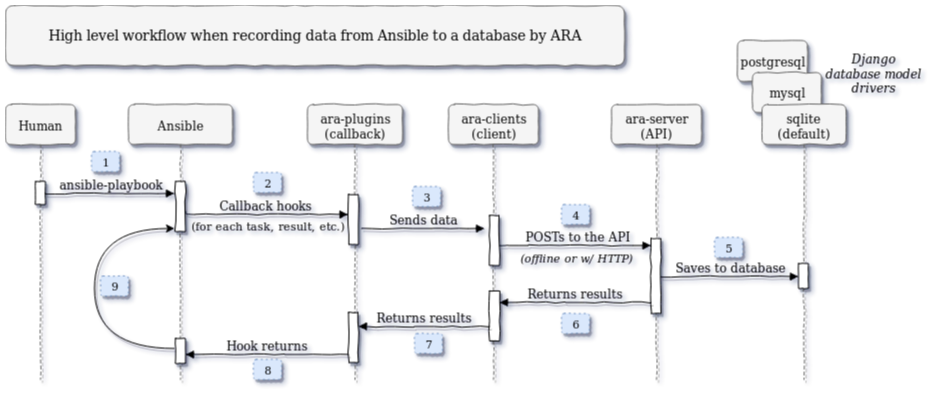
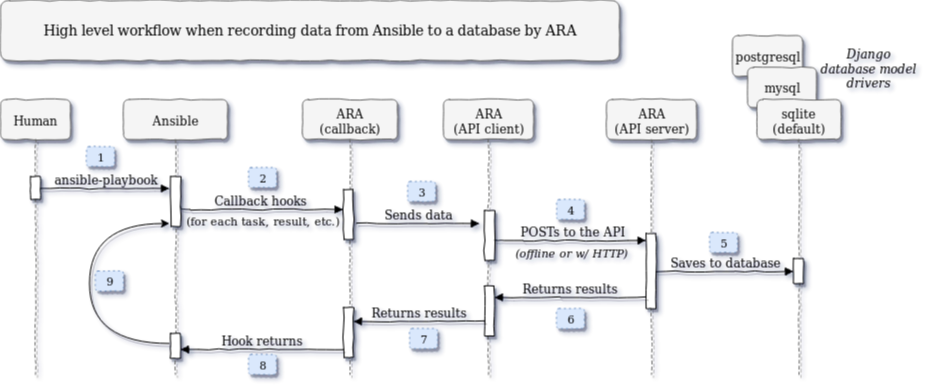
Documentation updates post-merge of plugins/server/clients
This updates some of the documentation bits that referred to individual
components like ara-server, ara-plugins and ara-clients.

diff --git a/doc/source/api-configuration.rst b/doc/source/api-configuration.rst
@@ -1,13 +1,13 @@
 .. _configuring:
 
-ara-server configuration
-========================
+ARA API server configuration
+============================
 
-ara-server ships with sane defaults, supports the notion of different
+The API server ships with sane defaults, supports the notion of different
 environments (*such as dev, staging, prod*) and allows you to customize the
 configuration with files, environment variables or a combination of both.
 
-ara-server is a Django application that leverages django-rest-framework.
+The API is a Django application that leverages django-rest-framework.
 Both `Django <https://docs.djangoproject.com/en/2.1/ref/settings/>`_ and
 `django-rest-framework <https://www.django-rest-framework.org/api-guide/settings/>`_
 have extensive configuration options which are not necessarily exposed or made
@@ -16,7 +16,7 @@ customizable by ARA for the sake of simplicity.
 Overview
 --------
 
-This is a brief overview of the different configuration options for ara-server.
+This is a brief overview of the different configuration options for the API server.
 For more details, click on the configuration parameters.
 
 +--------------------------------+------------------------------------------------------+------------------------------------------+
@@ -24,7 +24,7 @@ For more details, click on the configuration parameters.
 +================================+======================================================+==========================================+
 | ARA_BASE_DIR_                  | Default directory for storing data and configuration | ``~/.ara/server``                        |
 +--------------------------------+------------------------------------------------------+------------------------------------------+
-| ARA_SETTINGS_                  | Path to an ara-server configuration file             | ``None``                                 |
+| ARA_SETTINGS_                  | Path to an API server configuration file             | ``None``                                 |
 +--------------------------------+------------------------------------------------------+------------------------------------------+
 | ARA_ENV_                       | Environment to load configuration for                | ``default``                              |
 +--------------------------------+------------------------------------------------------+------------------------------------------+
@@ -90,7 +90,7 @@ Changing this location influences the default root directory for the
 ``ARA_STATIC_ROOT`` and ``ARA_DATABASE_NAME`` parameters.
 
 This is also used to determine the location where the default configuration
-file, ``settings.yaml``, will be generated by ara-server.
+file, ``settings.yaml``, will be generated by the API server.
 
 ARA_SETTINGS
 ~~~~~~~~~~~~
@@ -101,15 +101,15 @@ ARA_SETTINGS
 - **Default**: ``None``
 - **Provided by**: dynaconf_
 
-Location of an ara-server configuration file to load settings from.
-``ara-server`` generates a default configuration file at
+Location of an API server configuration file to load settings from.
+The API server will generate a default configuration file at
 ``~/.ara/server/settings.yaml`` that you can use to get started.
 
 Note that while the configuration file is in YAML by default, it is possible
 to have configuration files written in ``ini``, ``json`` and ``toml`` as well.
 
-Settings and configuration parsing in ara-server is provided by the dynaconf_
-python module.
+Settings and configuration parsing by the API server is provided by the dynaconf_
+python library.
 
 .. _dynaconf: https://github.com/rochacbruno/dynaconf
 
@@ -122,9 +122,9 @@ ARA_ENV
 - **Default**: ``development``
 - **Provided by**: dynaconf_
 
-If you are using ara-server in different environments and would like keep your
-configuration in a single file, you can use this variable to select a specific
-environment's settings.
+If you are using the API server in different environments and would like keep
+your configuration in a single file, you can use this variable to select a
+specific environment's settings.
 
 For example::
 
@@ -158,7 +158,7 @@ Another approach to environment-specific configuration is to use
 or ``prod.yaml`` instead.
 
 .. tip::
-   If it does not exist, ara-server will generate a default configuration
+   If it does not exist, the API server will generate a default configuration
    file at ``~/.ara/server/settings.yaml``.
    This generated file sets up all the configuration keys in the **default**
    environment.
@@ -207,7 +207,7 @@ ARA_LOG_LEVEL
 - **Type**: ``string``
 - **Default**: ``INFO``
 
-Log level of the different components from ``ara-server``.
+Log level of the different components from the API server.
 
 ``ARA_LOG_LEVEL`` changes the log level of the default logging configuration
 provided by ARA_LOGGING_.
@@ -243,7 +243,7 @@ ARA_LOGGING
         level: INFO
         version: 1
 
-The python logging configuration for ``ara-server``.
+The python logging configuration for the API server.
 
 ARA_CORS_ORIGIN_WHITELIST
 ~~~~~~~~~~~~~~~~~~~~~~~~~
@@ -284,7 +284,7 @@ ARA_ALLOWED_HOSTS
 A list of strings representing the host/domain names that this Django site can
 serve.
 
-If you are planning on hosting an instance of ``ara-server`` somewhere, you'll
+If you are planning on hosting an instance of the API server somewhere, you'll
 need to add your domain name to this list.
 
 ARA_DEBUG
@@ -345,7 +345,7 @@ ARA_DATABASE_ENGINE
 The Django database driver to use.
 
 When using anything other than sqlite3 default driver, make sure to set the
-other database settings to allow ara-server to connect to the database.
+other database settings to allow the API server to connect to the database.
 
 ARA_DATABASE_NAME
 ~~~~~~~~~~~~~~~~~

diff --git a/doc/source/api-usage.rst b/doc/source/api-usage.rst
@@ -1,27 +1,19 @@
-Using API clients with ara-server
-=================================
+Using ARA API clients
+=====================
 
-Once you've :ref:`installed <installing>` ara-server, you need to know how
-you're going to use it.
+When installing ARA, you are provided with an API server and two API clients
+out of the box:
 
-Typically, `ara-server <https://github.com/openstack/ara-server>`_ is consumed
-by `ara-clients <https://github.com/openstack/ara-clients>`_ which currently
-provides two python clients for the API.
+- ``AraOfflineClient`` can query the API without needing an API server to be running
+- ``AraHttpClient`` is meant to query a specified API server over http
 
 ARA Offline REST API client
 ~~~~~~~~~~~~~~~~~~~~~~~~~~~
 
-The default client, ``AraOfflineClient``, is meant to be used to query the API
-without requiring users to start or host an instance of ``ara-server``.
+If your use case doesn't require a remote or persistent API server, the offline
+client lets you query the API without needing to start an API server.
 
-To use the offline client, first install ``ara-server`` and ``ara-clients``,
-for example::
-
-    # Install ara-server and ara-clients
-    python3 -m venv ~/.ara/venv
-    ~/.ara/venv/bin/pip install ara-server ara-clients
-
-Then you can use it like this::
+In order to use this client, you would instanciate it like this::
 
     #!/usr/bin/env python3
     # Import the client
@@ -35,8 +27,6 @@ ARA HTTP REST API client
 
 ``AraHttpClient`` works with the same interface, methods and behavior as
 ``AraOfflineClient``.
-The HTTP client does not require ``ara-server`` to be installed in order to be
-used but expects a functional API endpoint at a specified location.
 
 You can set your client to communicate with a remote ``ara-server`` API by
 specifying an endpoint parameter::
@@ -45,7 +35,7 @@ specifying an endpoint parameter::
     # Import the client
     from ara.clients.http import AraHttpClient
 
-    # Instanciate the HTTP client with an endpoint where ara-server is listening
+    # Instanciate the HTTP client with an endpoint where an API server is listening
     client = AraHttpClient(endpoint="https://api.demo.recordsansible.org")
 
 Example API usage
@@ -57,6 +47,13 @@ Example API usage
 Once you've instanciated your client, you're ready to query the API.
 
 Here's a code example to help you get started::
+
+    #!/usr/bin/env python3
+    # Import the client
+    from ara.clients.http import AraHttpClient
+
+    # Instanciate the HTTP client with an endpoint where an API server is listening
+    client = AraHttpClient(endpoint="https://api.demo.recordsansible.org")
 
     # Get a list of failed playbooks
     # /api/v1/playbooks?status=failed

diff --git a/doc/source/api-security.rst b/doc/source/api-security.rst
@@ -1,9 +1,9 @@
 .. security:
 
-Authentication and security
-===========================
+ARA API Server authentication and security
+==========================================
 
-ara-server ships with a default configuration that emphasizes simplicity to
+The API server ships with a default configuration that emphasizes simplicity to
 let users get started quickly.
 
 By default:
@@ -19,7 +19,7 @@ deployments.
 Setting a custom secret key
 ---------------------------
 
-By default, ara-server randomly generates a token for the :ref:`ARA_SECRET_KEY`
+By default, the API server randomly generates a token for the :ref:`ARA_SECRET_KEY`
 setting if none have been supplied by the user.
 This value is persisted in the server configuration file in order to prevent
 the key from changing on every instanciation of the server.
@@ -34,7 +34,7 @@ configuration file.
 User management
 ---------------
 
-ara-server leverages Django's `user management <https://docs.djangoproject.com/en/2.1/topics/auth/default/>`_
+The API server leverages Django's `user management <https://docs.djangoproject.com/en/2.1/topics/auth/default/>`_
 but doesn't create any user by default.
 
 .. note::
@@ -97,7 +97,7 @@ Managing hosts allowed to serve the API
 By default, :ref:`ARA_ALLOWED_HOSTS` authorizes ``localhost``, ``::1`` and
 ``127.0.0.1`` to serve requests for the API server.
 
-In order to host an instance of ara-server on another domain, the domain must
+In order to host an instance of the API server on another domain, the domain must
 be part of this list or the application server will deny any requests sent to
 it.
 
@@ -106,7 +106,7 @@ Managing CORS (cross-origin resource sharing)
 
 The :ref:`ARA_CORS_ORIGIN_WHITELIST` default is designed to allow a local development
 instance of an `ara-web <https://github.com/openstack/ara-web>`_ dashboard to
-communicate with a local development instance of ara-server.
+communicate with a local development instance of the API server.
 
 The whitelist must contain the domain names where you plan on hosting instances
 of ara-web.

diff --git a/doc/source/architecture.rst b/doc/source/architecture.rst
@@ -9,15 +9,12 @@ Recording data from Ansible
 0. A human (*or a system, script, etc.*) installs ARA and configures Ansible to use the ARA callback
 1. A human (*or a system, script, etc.*) executes an ``ansible-playbook`` command
 2. Ansible sends hooks for every event to `callback plugins`_ (``v2_playbook_on_start``, ``v2_runner_on_failed``, etc.)
-3. The callback plugin, provided by ara-plugins_, organizes the data sent by Ansible and sends it to the API client
-4. The API client, provided by ara-clients_, takes care of actually sending the data to the API over HTTP or locally offline through an internal implementation
-5. The API server, provided by ara-server_, receives the POST from the client, validates it and sends it to the database model backend
+3. The callback plugin, organizes the data sent by Ansible and sends it to the API client
+4. The API client sends the data to the API over HTTP or locally offline through an internal implementation
+5. The API server receives the POST from the client, validates it and sends it to the database model backend
 6. The API server sends a response back to the client with the results
 7. The API client sends the response back to the callback with the results
 8. The callback plugin returns, ending the callback hook
 9. Ansible continues running until it is complete (back to step 2)
 
 .. _callback plugins: https://docs.ansible.com/ansible/latest/plugins/callback.html
-.. _ara-plugins: https://github.com/openstack/ara-plugins
-.. _ara-clients: https://github.com/openstack/ara-clients
-.. _ara-server: https://github.com/openstack/ara-server

diff --git a/README.rst b/README.rst
@@ -1,5 +1,5 @@
-ara
-===
+ARA Records Ansible
+===================
 
 .. image:: doc/source/_static/ara-with-icon.png
 
@@ -32,10 +32,10 @@ Here's how you can get started from scratch with default settings::
     # Run your playbook as your normally would
     ~/.ara/venv/bin/ansible-playbook playbook.yml
 
-The data is saved in real time during the Ansible playbook execution.
+The data will be saved in real time throughout the execution of the Ansible playbook.
 
-What happened behind the scenes is that the ARA Ansible callback plugin used
-the offline API client to send the data to the API which then saved it to a
+What happens behind the scenes is that the ARA Ansible callback plugin used
+the built-in API client to send the data to the API which then saved it to a
 database located by default at ``~/.ara/server/ansible.sqlite``.
 
 You're now ready to start poking at the API with the built-in API clients !

diff --git a/doc/source/index.rst b/doc/source/index.rst
@@ -1,5 +1,5 @@
-Welcome to the ARA server documentation!
-========================================
+Welcome to the ARA documentation!
+=================================
 .. image:: _static/ara.png
 
 Table of Contents
@@ -8,8 +8,8 @@ Table of Contents
 .. toctree::
     :maxdepth: 2
 
-    Installing ara-server <installing>
-    Configuration settings and preferences <configuring>
-    Authentication and security <security>
-    Using API clients with ara-server <using_api_clients>
-    Architecture and workflows <arch>
+    Installing ARA <installation>
+    API configuration settings and preferences <api-configuration>
+    API authentication and security <api-security>
+    API usage with built-in clients <api-usage>
+    Architecture and workflows <architecture>

diff --git a/doc/source/installation.rst b/doc/source/installation.rst
@@ -1,0 +1,15 @@
+.. installation:
+
+Installing ARA
+==============
+
+ARA should work on any Linux distributions as long as python3 is available.
+
+It is recommended to use a python `virtual environment <https://docs.python.org/3/tutorial/venv.html>`_
+in order to avoid conflicts with your Linux distribution python packages::
+
+    # Create a virtual environment
+    python3 -m venv ~/.ara/venv
+
+    # Install ARA 1.0 from source
+    ~/.ara/venv/bin/pip install git+https://git.openstack.org/openstack/ara@feature/1.0
